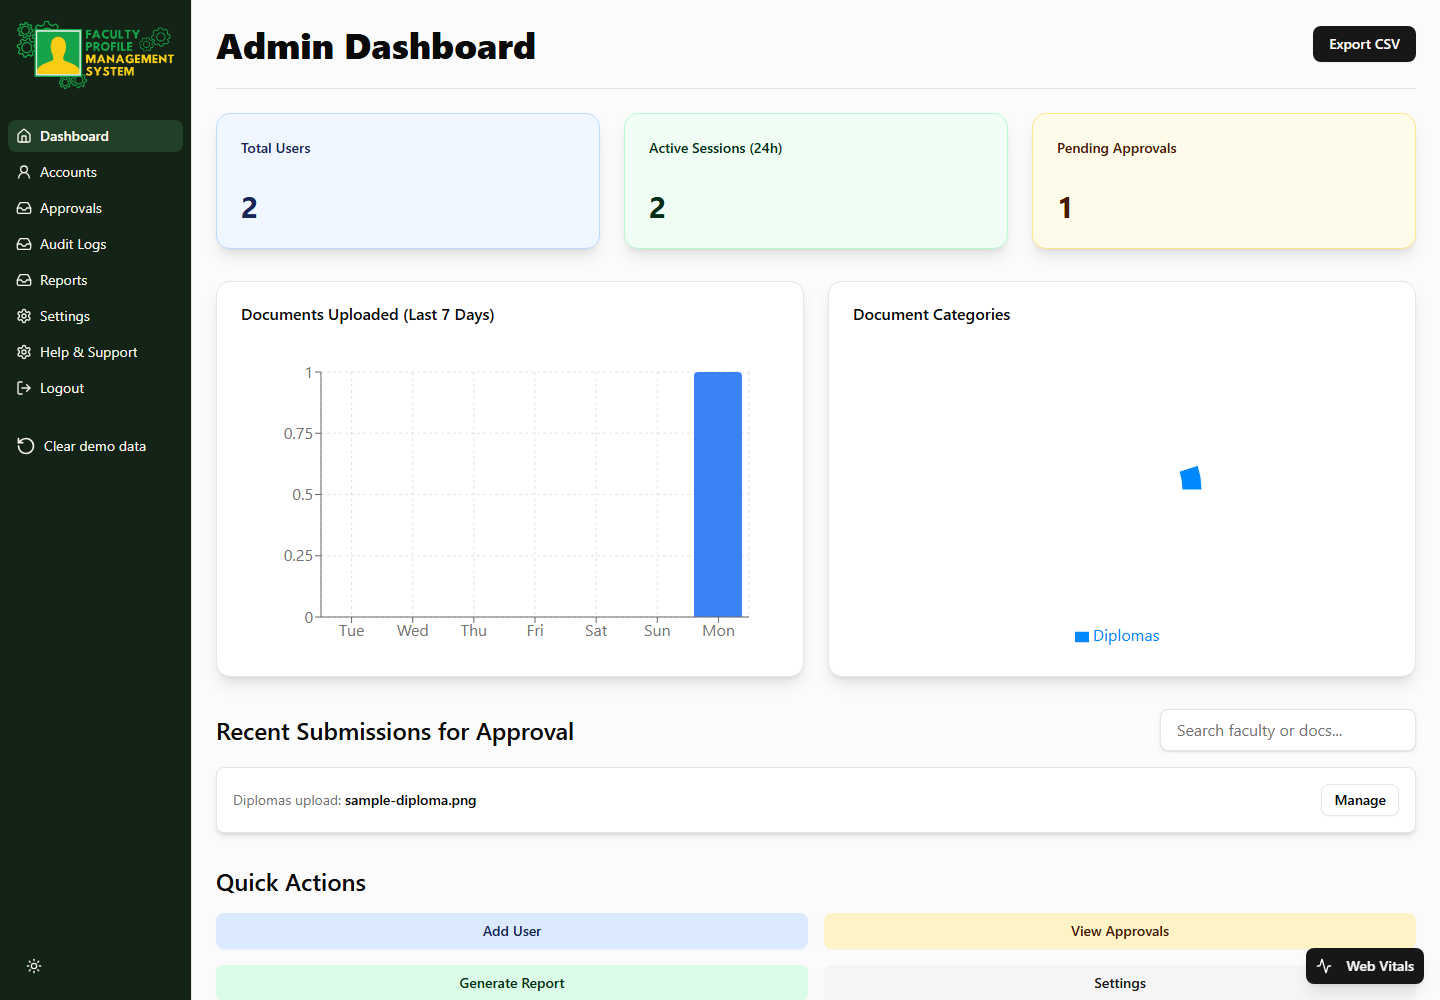
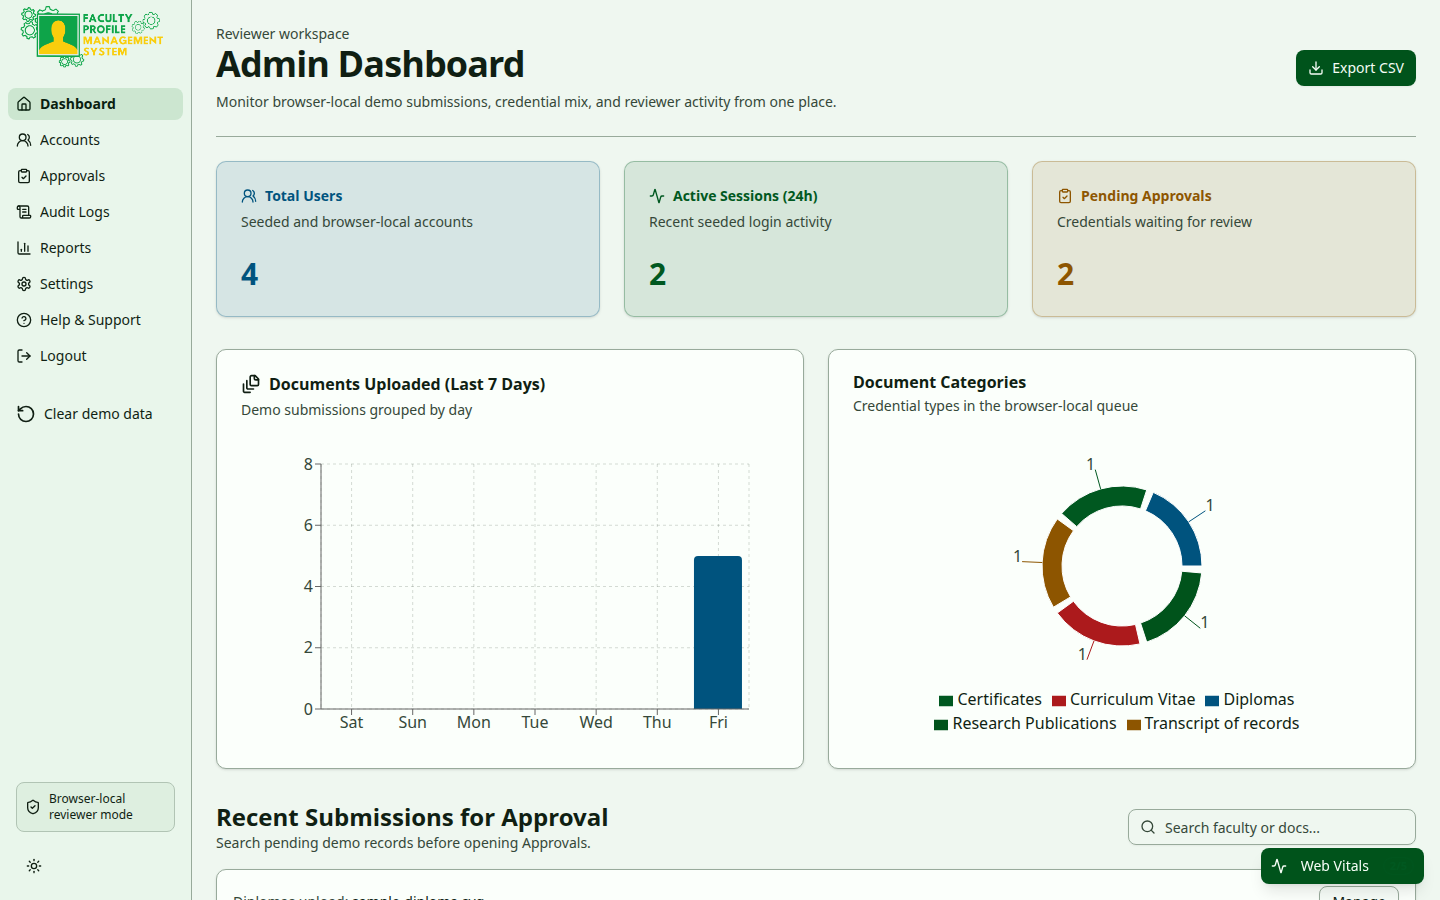
fix(ui): raise dark-mode contrast and keep a branded hero
Use a dedicated hero surface so dark mode does not invert the landing band to bright lime, darken muted text and borders, and refresh README screenshots to the new chrome.

diff --git a/src/pages/landing.tsx b/src/pages/landing.tsx
@@ -118,38 +118,38 @@ export default function Landing() {
 
   return (
     <main className="min-h-screen overflow-x-hidden bg-background text-foreground">
-      <section className="relative flex min-h-[86dvh] items-center bg-primary px-5 py-16 text-primary-foreground sm:px-8 lg:px-12">
+      <section className="relative flex min-h-[86dvh] items-center bg-hero px-5 py-16 text-hero-foreground sm:px-8 lg:px-12">
         <div className="relative mx-auto grid w-full max-w-7xl gap-10">
           <nav aria-label="Public demo navigation" className="flex flex-wrap items-center justify-between gap-4">
-            <Link to="/" className="inline-flex min-h-11 items-center gap-3 rounded-md text-sm font-semibold text-primary-foreground">
-              <img className="h-10 w-10 rounded-md bg-primary-foreground/95 object-contain p-1" alt="FPMS logo" src={assetPath('fav-icon.png')} />
+            <Link to="/" className="inline-flex min-h-11 items-center gap-3 rounded-md text-sm font-semibold text-hero-foreground">
+              <img className="h-10 w-10 rounded-md bg-hero-foreground/95 object-contain p-1" alt="FPMS logo" src={assetPath('fav-icon.png')} />
               <span>Smart Profile</span>
             </Link>
             <div className="flex flex-wrap items-center gap-2">
-              <ThemeToggle className="text-primary-foreground hover:bg-primary-foreground/15 hover:text-primary-foreground" />
+              <ThemeToggle className="text-hero-foreground hover:bg-hero-foreground/15 hover:text-hero-foreground" />
               <Button asChild variant="secondary" size="sm">
                 <Link to="/auth/login">Sign in</Link>
               </Button>
-              <Button asChild size="sm" className="bg-primary-foreground text-primary hover:bg-primary-foreground/90">
+              <Button asChild size="sm" className="bg-hero-foreground text-hero hover:bg-hero-foreground/90">
                 <Link to="/auth/login?demo=faculty">Demo</Link>
               </Button>
             </div>
           </nav>
 
           <div className="max-w-4xl pt-10">
-            <Badge className="mb-5 border-primary-foreground/30 bg-primary-foreground/15 text-primary-foreground">
+            <Badge className="mb-5 border-hero-foreground/30 bg-hero-foreground/15 text-hero-foreground">
               Browser-local demo mode
             </Badge>
             <h1 className="max-w-4xl text-4xl font-bold leading-tight tracking-normal sm:text-5xl lg:text-6xl">
               CCIS Smart Faculty Profile Management System
             </h1>
-            <p className="mt-6 max-w-2xl text-base leading-7 text-primary-foreground/80 sm:text-lg">
+            <p className="mt-6 max-w-2xl text-base leading-7 text-hero-foreground/85 sm:text-lg">
               A restored 7th CCIS Hackathon demo for faculty credential intake,
               admin review, and profile proofing. Reviewers can use seeded accounts
               and generated sample files without private backend or OpenAI credentials.
             </p>
             <div className="mt-8 flex flex-col gap-3 sm:flex-row">
-              <Button asChild size="lg" className="min-h-11 bg-primary-foreground text-primary hover:bg-primary-foreground/90">
+              <Button asChild size="lg" className="min-h-11 bg-hero-foreground text-hero hover:bg-hero-foreground/90">
                 <Link to="/auth/login?demo=faculty">
                   <Sparkles className="h-4 w-4" />
                   Start demo
@@ -158,16 +158,16 @@ export default function Landing() {
               <Button asChild size="lg" variant="secondary" className="min-h-11">
                 <Link to="/auth/login">Login</Link>
               </Button>
-              <Button asChild size="lg" variant="outline" className="min-h-11 border-primary-foreground/30 bg-primary-foreground/10 text-primary-foreground hover:bg-primary-foreground/20 hover:text-primary-foreground">
+              <Button asChild size="lg" variant="outline" className="min-h-11 border-hero-foreground/40 bg-hero-foreground/10 text-hero-foreground hover:bg-hero-foreground/20 hover:text-hero-foreground">
                 <Link to="/auth/register">Register</Link>
               </Button>
             </div>
-            <div className="mt-7 flex flex-wrap gap-3 text-sm text-primary-foreground/80">
-              <a href={samplePath('sample-certificate.svg')} className="inline-flex min-h-11 items-center gap-2 rounded-md border border-primary-foreground/20 bg-primary-foreground/10 px-3 hover:bg-primary-foreground/20">
+            <div className="mt-7 flex flex-wrap gap-3 text-sm text-hero-foreground/85">
+              <a href={samplePath('sample-certificate.svg')} className="inline-flex min-h-11 items-center gap-2 rounded-md border border-hero-foreground/30 bg-hero-foreground/10 px-3 hover:bg-hero-foreground/20">
                 <Download className="h-4 w-4" />
                 Download sample certificate
               </a>
-              <a href={samplePath('sample-transcript.svg')} className="inline-flex min-h-11 items-center gap-2 rounded-md border border-primary-foreground/20 bg-primary-foreground/10 px-3 hover:bg-primary-foreground/20">
+              <a href={samplePath('sample-transcript.svg')} className="inline-flex min-h-11 items-center gap-2 rounded-md border border-hero-foreground/30 bg-hero-foreground/10 px-3 hover:bg-hero-foreground/20">
                 <Download className="h-4 w-4" />
                 Download sample transcript
               </a>

diff --git a/src/styles/global.css b/src/styles/global.css
@@ -30,6 +30,8 @@
   --color-warning-foreground: var(--warning-foreground);
   --color-info: var(--info);
   --color-info-foreground: var(--info-foreground);
+  --color-hero: var(--hero);
+  --color-hero-foreground: var(--hero-foreground);
   --color-border: var(--border);
   --color-input: var(--input);
   --color-ring: var(--ring);
@@ -62,7 +64,7 @@
   --secondary: oklch(0.94 0.02 150);
   --secondary-foreground: oklch(0.26 0.05 150);
   --muted: oklch(0.945 0.016 150);
-  --muted-foreground: oklch(0.42 0.03 150);
+  --muted-foreground: oklch(0.38 0.035 150);
   --accent: oklch(0.93 0.035 150);
   --accent-foreground: oklch(0.26 0.055 150);
   --destructive: oklch(0.48 0.18 27);
@@ -73,8 +75,10 @@
   --warning-foreground: oklch(0.99 0.02 95);
   --info: oklch(0.42 0.1 240);
   --info-foreground: oklch(0.985 0.01 240);
-  --border: oklch(0.78 0.025 150);
-  --input: oklch(0.78 0.025 150);
+  --hero: oklch(0.32 0.09 150);
+  --hero-foreground: oklch(0.985 0.012 150);
+  --border: oklch(0.72 0.03 150);
+  --input: oklch(0.72 0.03 150);
   --ring: oklch(0.42 0.11 150);
   --chart-1: oklch(0.42 0.12 150);
   --chart-2: oklch(0.5 0.12 75);
@@ -104,7 +108,7 @@
   --secondary: oklch(0.28 0.035 150);
   --secondary-foreground: oklch(0.96 0.012 150);
   --muted: oklch(0.28 0.03 150);
-  --muted-foreground: oklch(0.82 0.02 150);
+  --muted-foreground: oklch(0.88 0.02 150);
   --accent: oklch(0.3 0.045 150);
   --accent-foreground: oklch(0.96 0.012 150);
   --destructive: oklch(0.72 0.16 25);
@@ -115,8 +119,10 @@
   --warning-foreground: oklch(0.24 0.05 75);
   --info: oklch(0.78 0.1 230);
   --info-foreground: oklch(0.18 0.04 240);
-  --border: oklch(0.42 0.04 150);
-  --input: oklch(0.36 0.035 150);
+  --hero: oklch(0.26 0.055 150);
+  --hero-foreground: oklch(0.96 0.012 150);
+  --border: oklch(0.5 0.045 150);
+  --input: oklch(0.42 0.04 150);
   --ring: oklch(0.74 0.15 145);
   --chart-1: oklch(0.74 0.15 145);
   --chart-2: oklch(0.82 0.12 85);

diff --git a/src/pages/admin/dashboard/index.tsx b/src/pages/admin/dashboard/index.tsx
@@ -192,7 +192,7 @@ export default function AdminDashboard() {
                     <UsersRound className="h-4 w-4" />
                     Total Users
                   </CardTitle>
-                  <CardDescription className="text-info/80">Seeded and browser-local accounts</CardDescription>
+                  <CardDescription>Seeded and browser-local accounts</CardDescription>
                 </CardHeader>
                 <CardContent>
                   <div className="text-3xl font-bold">{isLoading ? <Skeleton className="h-9 w-12" /> : usersCount}</div>
@@ -205,7 +205,7 @@ export default function AdminDashboard() {
                     <Activity className="h-4 w-4" />
                     Active Sessions (24h)
                   </CardTitle>
-                  <CardDescription className="text-success/80">Recent seeded login activity</CardDescription>
+                  <CardDescription>Recent seeded login activity</CardDescription>
                 </CardHeader>
                 <CardContent>
                   <div className="text-3xl font-bold">{isLoading ? <Skeleton className="h-9 w-12" /> : activeSessions}</div>
@@ -218,7 +218,7 @@ export default function AdminDashboard() {
                     <ClipboardCheck className="h-4 w-4" />
                     Pending Approvals
                   </CardTitle>
-                  <CardDescription className="text-warning/80">Credentials waiting for review</CardDescription>
+                  <CardDescription>Credentials waiting for review</CardDescription>
                 </CardHeader>
                 <CardContent>
                   <div className="text-3xl font-bold">{isLoading ? <Skeleton className="h-9 w-12" /> : pendingApprovals}</div>

diff --git a/src/test/uiContrast.test.ts b/src/test/uiContrast.test.ts
@@ -49,6 +49,8 @@ describe('UI contrast and print-safe styling', () => {
       '--info:',
       '--info-foreground:',
       '--destructive-foreground:',
+      '--hero:',
+      '--hero-foreground:',
       '--sidebar:',
     ]) {
       expect(root).toContain(token);
@@ -62,9 +64,9 @@ describe('UI contrast and print-safe styling', () => {
     expect(dark).toMatch(/--primary:\s*oklch\(0\.7[0-9].*(145|150)\)/);
     expect(root).toMatch(/--sidebar:\s*oklch\(0\.9/);
     expect(dark).toMatch(/--sidebar:\s*oklch\(0\.1[0-9]/);
-    expect(css).toContain('--color-success: var(--success)');
-    expect(css).toContain('--color-warning: var(--warning)');
-    expect(css).toContain('--color-info: var(--info)');
+    expect(root).toContain('--hero:');
+    expect(dark).toContain('--hero:');
+    expect(css).toContain('--color-hero: var(--hero)');
   });
 
   test('keeps public chrome on semantic theme tokens instead of locked slate', () => {
@@ -73,7 +75,7 @@ describe('UI contrast and print-safe styling', () => {
     const register = readSourceFile('src/pages/auth/register.tsx');
 
     expect(landing).toContain('bg-background text-foreground');
-    expect(landing).toContain('bg-primary');
+    expect(landing).toContain('bg-hero');
     expect(landing).not.toContain('bg-slate-950');
     expect(login).toContain('bg-background');
     expect(login).not.toContain('bg-slate-950');
